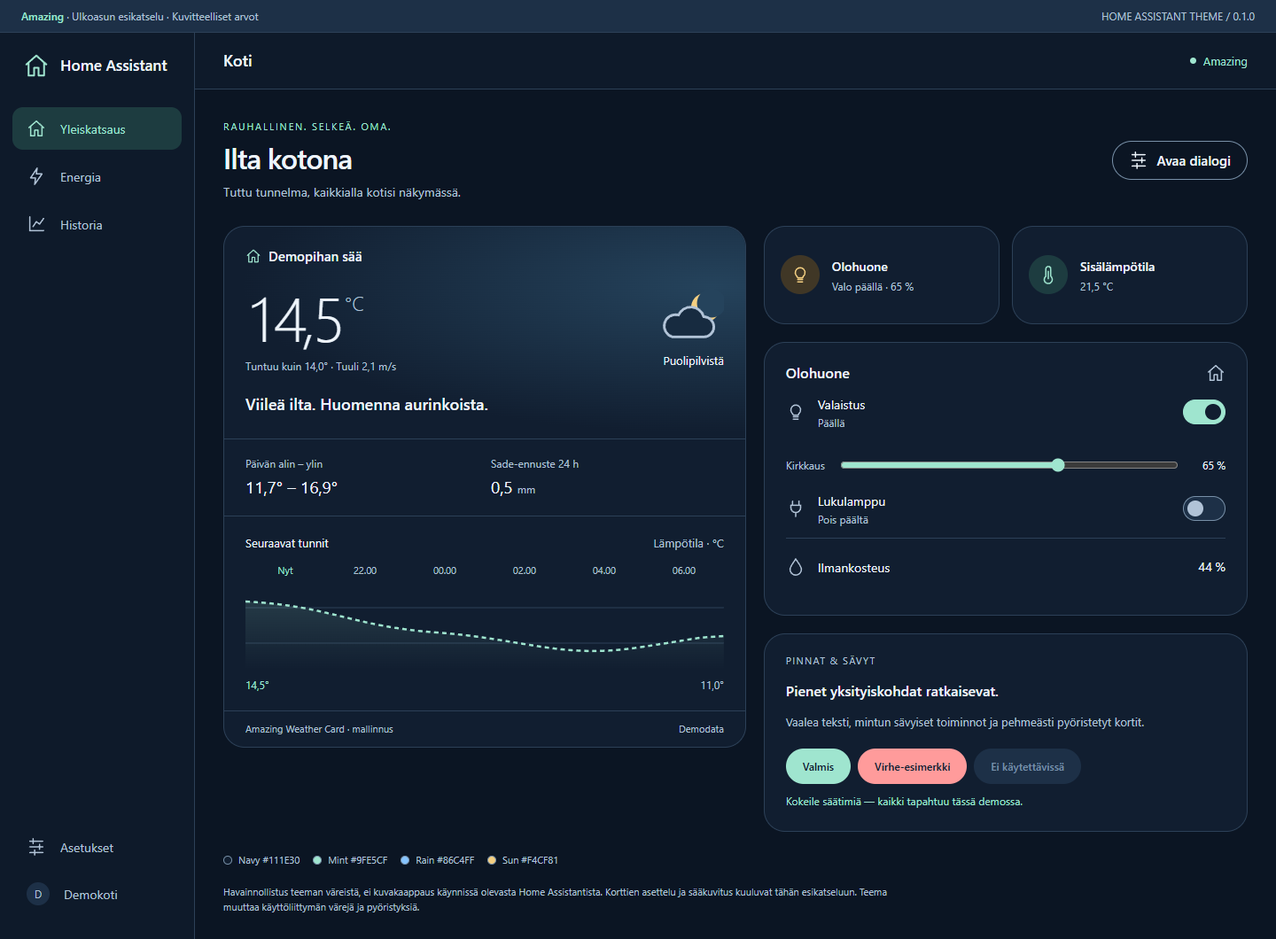
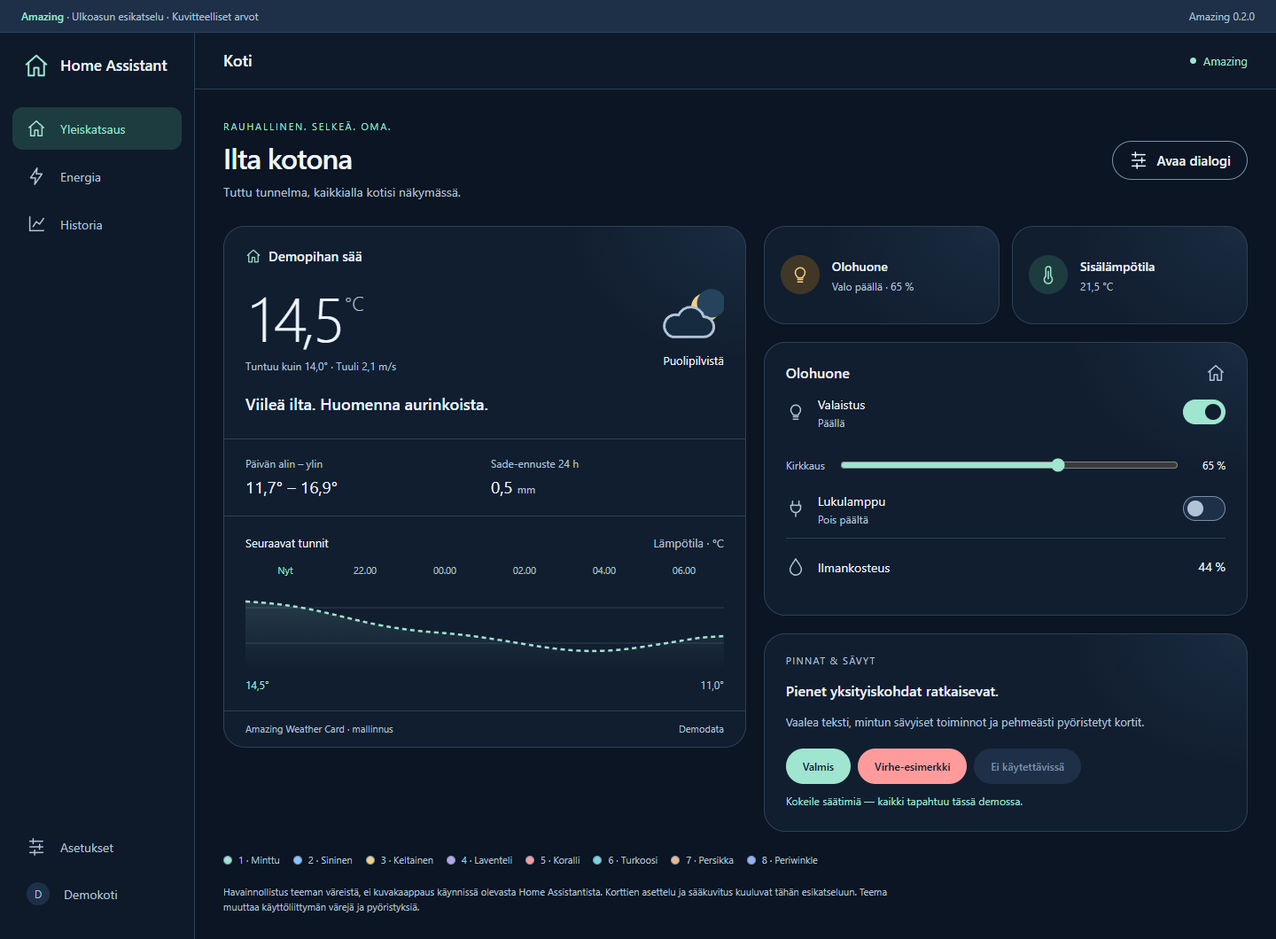
Add subtle card glow and chart palette for Amazing 0.2.0 (#3)
* Document user-reported Home Assistant testing

* Add subtle card glow and coordinated chart palette

* Document live HA testing and refresh 0.2.0 preview

diff --git a/preview/index.html b/preview/index.html
@@ -28,12 +28,20 @@
     --divider-color: #2c4057;
     --outline-color: #7890a8;
     --outline-hover-color: #b1c3d7;
-    --ha-card-background: #111e30;
+    --ha-card-background: radial-gradient(ellipse 280px 210px at 100% 0%, rgba(134, 196, 255, 0.08), transparent 72%), #111e30;
     --ha-card-border-color: #2c4057;
     --ha-card-border-width: 1px;
     --ha-card-border-radius: 24px;
     --ha-card-box-shadow: none;
     --ha-card-header-color: #eef5fc;
+    --graph-color-1: #9fe5cf;
+    --graph-color-2: #86c4ff;
+    --graph-color-3: #f4cf81;
+    --graph-color-4: #b5a7e8;
+    --graph-color-5: #ff9b9b;
+    --graph-color-6: #79d5dc;
+    --graph-color-7: #e8b895;
+    --graph-color-8: #9caef5;
     --sidebar-background-color: #0e1a2a;
     --sidebar-text-color: #eef5fc;
     --sidebar-icon-color: #b1c3d7;
@@ -212,7 +220,7 @@
     *{box-sizing:border-box}body{margin:0;background:var(--primary-background-color);color:var(--primary-text-color);font:15px/1.5 system-ui,-apple-system,"Segoe UI",sans-serif}button,input,select{font:inherit}button,a,input,select{-webkit-tap-highlight-color:transparent}button{cursor:pointer}button:focus-visible,a:focus-visible,input:focus-visible,select:focus-visible{outline:3px solid var(--ha-color-focus);outline-offset:4px}button{color:inherit}a{color:var(--primary-color)}svg{display:block}.icon{width:22px;height:22px;fill:none;stroke:currentColor;stroke-width:1.65;stroke-linecap:round;stroke-linejoin:round;flex-shrink:0}.symbols{position:absolute;width:0;height:0;overflow:hidden}
     .demo-note{padding:9px 24px;border-bottom:1px solid var(--divider-color);background:var(--secondary-background-color);font-size:12px;color:var(--secondary-text-color);display:flex;justify-content:space-between;gap:12px;flex-wrap:wrap}.demo-note strong{color:var(--primary-color);font-weight:600}.shell{display:grid;grid-template-columns:220px minmax(0,1fr);min-height:calc(100vh - 38px)}aside{background:var(--sidebar-background-color);border-right:1px solid var(--divider-color);padding:22px 14px;display:flex;flex-direction:column}.brand{display:flex;align-items:center;gap:12px;padding:0 12px 29px;font-weight:600;font-size:17px}.brand .icon{color:var(--primary-color);width:30px;height:30px}.nav-item{display:flex;gap:16px;align-items:center;padding:13px 16px;margin:3px 0;color:var(--secondary-text-color);font-size:14px}.nav-item.selected{background:var(--ha-color-fill-primary-normal-resting);color:var(--sidebar-selected-text-color);border-radius:12px}.aside-bottom{margin-top:auto;padding-top:80px}.avatar{width:26px;height:26px;border-radius:50%;background:var(--secondary-background-color);display:grid;place-items:center;font-size:12px}
     .workspace{min-width:0}.topbar{min-height:64px;padding:0 32px;display:flex;align-items:center;justify-content:space-between;background:var(--app-header-background-color);border-bottom:1px solid var(--divider-color)}.topbar h1{font-size:18px;font-weight:500;margin:0}.theme-tag{display:flex;align-items:center;gap:8px;color:var(--primary-color);font-size:13px}.theme-tag:before{content:"";width:7px;height:7px;border-radius:50%;background:currentColor}.content{max-width:1320px;margin:auto;padding:34px 32px 28px}.intro{display:flex;justify-content:space-between;align-items:center;gap:20px;margin-bottom:28px}.eyebrow{color:var(--primary-color);font-size:11px;letter-spacing:1.8px;text-transform:uppercase;margin:0 0 7px}.intro h2{font-size:32px;line-height:1.2;font-weight:500;letter-spacing:-1px;margin:0 0 9px}.intro p:last-child{margin:0;color:var(--secondary-text-color);font-size:14px}.outline-button,.plain-button,.filled-button,.danger-button{border-radius:24px;min-height:44px;padding:10px 18px;display:inline-flex;align-items:center;justify-content:center;gap:9px;border:1px solid var(--outline-color);background:transparent;font-weight:500;white-space:nowrap}.outline-button:hover,.plain-button:hover{background:var(--ha-color-fill-neutral-normal-hover)}.filled-button{background:var(--ha-color-fill-primary-loud-resting);color:var(--ha-color-on-primary-loud);border-color:transparent}.filled-button:hover{background:var(--ha-color-fill-primary-loud-hover)}.danger-button{background:var(--ha-color-fill-danger-loud-resting);color:var(--ha-color-on-danger-loud);border-color:transparent}.danger-button:hover{background:var(--ha-color-fill-danger-loud-hover)}.plain-button{border-color:transparent;color:var(--primary-color)}
-    .dashboard{display:grid;grid-template-columns:minmax(0,1.08fr) minmax(0,1fr);gap:20px;align-items:start}.card{border:var(--ha-card-border-width) solid var(--ha-card-border-color);border-radius:var(--ha-card-border-radius);background:var(--ha-card-background);box-shadow:var(--ha-card-box-shadow);overflow:hidden}.card-title{display:flex;align-items:center;justify-content:space-between;gap:12px;font-size:16px;font-weight:500;margin:0}.subtle{color:var(--secondary-text-color)}.card-top{padding:21px 24px 0}.weather-top{padding:22px 24px 26px;background:radial-gradient(ellipse at 94% 28%,#25435c 0%,transparent 68%)}.weather-label{display:flex;align-items:center;gap:8px;font-size:15px;font-weight:500}.weather-label .icon{color:var(--primary-color);width:18px;height:18px}.weather-now{display:flex;justify-content:space-between;gap:12px;align-items:center;margin-top:21px}.temperature{font-size:70px;font-weight:300;line-height:1.05;letter-spacing:-4px;font-variant-numeric:tabular-nums}.temperature small{font-size:22px;vertical-align:top;letter-spacing:0;color:var(--secondary-text-color);display:inline-block;margin:10px 0 0 4px}.feels{font-size:12px;color:var(--secondary-text-color);margin-top:9px}.weather-symbol{width:76px;height:65px;color:var(--secondary-text-color)}.condition{text-align:right;font-size:13px}.condition svg{margin:0 0 6px auto}.summary{font-size:18px;font-weight:500;margin:22px 0 0;line-height:1.4}.weather-stats{display:grid;grid-template-columns:1fr 1fr;gap:14px;padding:18px 24px;border-top:1px solid var(--divider-color);border-bottom:1px solid var(--divider-color)}.stat-label{font-size:12px;color:var(--secondary-text-color)}.stat-value{font-size:19px;margin-top:3px}.stat-value small{font-size:12px;color:var(--secondary-text-color)}.forecast{padding:20px 24px}.forecast-heading{display:flex;align-items:center;justify-content:space-between;font-size:13px;margin-bottom:14px}.forecast-hours{display:grid;grid-template-columns:repeat(6,1fr);font-size:11px;color:var(--secondary-text-color);text-align:center}.forecast-hours span:first-child{color:var(--primary-color)}.chart{height:95px;width:100%;margin:8px 0}.chart-labels{display:flex;justify-content:space-between;font-size:12px}.weather-footer{border-top:1px solid var(--divider-color);padding:12px 24px;color:var(--secondary-text-color);font-size:11px;display:flex;align-items:center;justify-content:space-between;gap:10px}
+    .dashboard{display:grid;grid-template-columns:minmax(0,1.08fr) minmax(0,1fr);gap:20px;align-items:start}.card{border:var(--ha-card-border-width) solid var(--ha-card-border-color);border-radius:var(--ha-card-border-radius);background:var(--ha-card-background);box-shadow:var(--ha-card-box-shadow);overflow:hidden}.card-title{display:flex;align-items:center;justify-content:space-between;gap:12px;font-size:16px;font-weight:500;margin:0}.subtle{color:var(--secondary-text-color)}.card-top{padding:21px 24px 0}.weather-top{padding:22px 24px 26px;background:transparent}.weather-label{display:flex;align-items:center;gap:8px;font-size:15px;font-weight:500}.weather-label .icon{color:var(--primary-color);width:18px;height:18px}.weather-now{display:flex;justify-content:space-between;gap:12px;align-items:center;margin-top:21px}.temperature{font-size:70px;font-weight:300;line-height:1.05;letter-spacing:-4px;font-variant-numeric:tabular-nums}.temperature small{font-size:22px;vertical-align:top;letter-spacing:0;color:var(--secondary-text-color);display:inline-block;margin:10px 0 0 4px}.feels{font-size:12px;color:var(--secondary-text-color);margin-top:9px}.weather-symbol{width:76px;height:65px;color:var(--secondary-text-color)}.condition{text-align:right;font-size:13px}.condition svg{margin:0 0 6px auto}.summary{font-size:18px;font-weight:500;margin:22px 0 0;line-height:1.4}.weather-stats{display:grid;grid-template-columns:1fr 1fr;gap:14px;padding:18px 24px;border-top:1px solid var(--divider-color);border-bottom:1px solid var(--divider-color)}.stat-label{font-size:12px;color:var(--secondary-text-color)}.stat-value{font-size:19px;margin-top:3px}.stat-value small{font-size:12px;color:var(--secondary-text-color)}.forecast{padding:20px 24px}.forecast-heading{display:flex;align-items:center;justify-content:space-between;font-size:13px;margin-bottom:14px}.forecast-hours{display:grid;grid-template-columns:repeat(6,1fr);font-size:11px;color:var(--secondary-text-color);text-align:center}.forecast-hours span:first-child{color:var(--primary-color)}.chart{height:95px;width:100%;margin:8px 0}.chart-labels{display:flex;justify-content:space-between;font-size:12px}.weather-footer{border-top:1px solid var(--divider-color);padding:12px 24px;color:var(--secondary-text-color);font-size:11px;display:flex;align-items:center;justify-content:space-between;gap:10px}
     .right-column{display:grid;gap:20px}.tiles{display:grid;grid-template-columns:1fr 1fr;gap:14px}.tile{padding:18px;min-height:111px;display:flex;align-items:center;gap:14px}.tile-icon{width:44px;height:44px;border-radius:50%;display:grid;place-items:center;background:var(--ha-color-fill-warning-normal-resting);color:var(--warning-color);flex-shrink:0}.tile-icon.mint{background:var(--ha-color-fill-primary-normal-resting);color:var(--primary-color)}.tile b{font-size:14px;font-weight:500}.tile p{font-size:12px;color:var(--secondary-text-color);margin:3px 0 0}.tile-content{min-width:0}.entities{padding:22px 24px}.entity-row{display:flex;align-items:center;gap:14px;min-height:65px}.entity-row+.entity-row{border-top:1px solid var(--divider-color)}.entity-row>.icon{color:var(--secondary-text-color)}.entity-text{flex:1;min-width:0}.entity-text b{font-size:14px;font-weight:400}.entity-text small{display:block;color:var(--secondary-text-color);font-size:12px}.entity-value{font-size:14px}.toggle{position:relative;width:48px;height:28px;min-width:48px;min-height:44px;border:0;background:transparent;padding:8px 0}.toggle:before{content:"";position:absolute;inset:8px 0;border:1px solid var(--ha-switch-border-color);border-radius:18px;background:var(--ha-switch-background-color)}.toggle:after{content:"";position:absolute;width:18px;height:18px;top:13px;left:5px;border-radius:50%;background:var(--ha-switch-thumb-background-color)}.toggle[aria-checked="true"]:before{background:var(--ha-switch-checked-background-color);border-color:var(--ha-switch-checked-border-color)}.toggle[aria-checked="true"]:after{left:25px;background:var(--ha-switch-checked-thumb-background-color)}.controls-row{display:flex;align-items:center;gap:15px;padding-top:10px}.controls-row label{font-size:12px;color:var(--secondary-text-color)}input[type="range"]{accent-color:var(--primary-color);width:100%;min-width:0;min-height:30px}.range-value{font-size:12px;min-width:36px;text-align:right}.section-label{font-size:11px;letter-spacing:1.3px;text-transform:uppercase;color:var(--secondary-text-color);margin:0 0 14px}.palette{margin-top:24px;display:flex;justify-content:space-between;align-items:center;gap:18px;flex-wrap:wrap}.swatches{display:flex;gap:15px;flex-wrap:wrap}.swatch{font-size:11px;color:var(--secondary-text-color);display:flex;align-items:center;gap:7px}.swatch i{width:10px;height:10px;border-radius:50%;background:var(--swatch);border:1px solid var(--outline-color)}.preview-caption{font-size:11px;color:var(--secondary-text-color);margin:20px 0 0;max-width:760px}.status{min-height:21px;font-size:12px;color:var(--primary-color);margin:10px 0 0}
     dialog{background:var(--ha-dialog-surface-background);color:var(--primary-text-color);border:1px solid var(--divider-color);border-radius:var(--ha-dialog-border-radius);box-shadow:var(--dialog-box-shadow);padding:26px;width:min(520px,calc(100% - 32px));max-height:calc(100dvh - 32px);overflow:auto}dialog::backdrop{background:var(--mdc-dialog-scrim-color)}.dialog-head{display:flex;align-items:center;justify-content:space-between;gap:16px;margin-bottom:15px}.dialog-head h2{font-size:22px;font-weight:500;margin:0}.close{border:0;background:transparent;width:44px;height:44px;display:grid;place-items:center;border-radius:50%}dialog p{color:var(--secondary-text-color);font-size:14px}dialog label{display:block;font-size:13px;color:var(--secondary-text-color);margin:20px 0 7px}input[type="text"],select{width:100%;min-height:50px;border:1px solid var(--input-outlined-idle-border-color);border-radius:10px;background:var(--input-fill-color);color:var(--input-ink-color);padding:10px 13px;font-size:16px}.dialog-actions{display:flex;justify-content:flex-end;gap:10px;flex-wrap:wrap;margin-top:25px}.message{display:flex;align-items:center;gap:10px;background:var(--ha-color-fill-warning-normal-resting);color:var(--ha-color-on-warning-normal);font-size:13px;padding:13px;border-radius:12px;margin-top:22px}.button-samples{display:flex;gap:8px;flex-wrap:wrap;margin-top:20px}.button-samples button{font-size:12px;min-height:40px}button:disabled{cursor:default;background:var(--ha-color-fill-disabled-normal-resting);color:var(--ha-color-on-disabled-normal);border-color:transparent}
     @media(min-width:1500px){.content{padding-top:48px}.dashboard{gap:24px}.weather-top{padding-bottom:35px}.forecast{padding-bottom:30px}}@media(max-width:1120px){.shell{grid-template-columns:72px minmax(0,1fr)}aside{padding:22px 9px}.brand{padding:0 12px 29px}.brand span,.nav-item>span,.aside-bottom .avatar+span{display:none}.nav-item{padding:13px 15px}.content{padding:28px 24px}.topbar{padding:0 24px}.tile{padding:14px;gap:10px}.tile-icon{width:36px;height:36px}}@media(max-width:800px){.dashboard{grid-template-columns:1fr}.content{max-width:640px}.intro{align-items:flex-start}.intro h2{font-size:28px}.intro .outline-button{font-size:12px;padding:9px 13px}.intro .outline-button .icon{display:none}.weather-top{padding-bottom:24px}}@media(max-width:480px){.shell{display:block}aside{display:none}.demo-note{padding:8px 16px;font-size:11px}.demo-note .version{display:none}.topbar{padding:0 18px;min-height:58px}.topbar h1{font-size:16px}.content{padding:24px 16px}.intro{display:block;margin-bottom:20px}.intro h2{font-size:29px}.intro .outline-button{margin-top:16px;font-size:13px}.tiles{gap:10px}.tile{padding:14px 11px;gap:9px}.tile-icon{width:32px;height:32px}.tile b{font-size:13px}.tile p{font-size:11px}.entities,.weather-top{padding:20px}.forecast{padding:20px}.weather-stats{padding:17px 20px}.palette{margin-top:20px}.swatches{gap:12px}.temperature{font-size:65px}.summary{font-size:17px}.preview-caption{font-size:12px}.dialog-actions{justify-content:stretch}.dialog-actions button{flex:1}dialog{padding:21px}.swatch{font-size:10px}}
@@ -230,7 +238,7 @@
     <symbol id="plug" viewBox="0 0 24 24"><path d="M8 3v5M16 3v5M6 8h12v3a6 6 0 0 1-12 0ZM12 17v5"/></symbol>
     <symbol id="close" viewBox="0 0 24 24"><path d="m6 6 12 12M18 6 6 18"/></symbol>
   </defs></svg>
-  <div class="demo-note"><span><strong>Amazing</strong> · Ulkoasun esikatselu · Kuvitteelliset arvot</span><span class="version">HOME ASSISTANT THEME / 0.1.0</span></div>
+  <div class="demo-note"><span><strong>Amazing</strong> · Ulkoasun esikatselu · Kuvitteelliset arvot</span><span class="version">Amazing 0.2.0</span></div>
   <div class="shell">
     <aside aria-label="Mallinnettu sivupalkki">
       <div class="brand"><svg class="icon"><use href="#home"/></svg><span>Home Assistant</span></div>
@@ -256,7 +264,7 @@
             <article class="card entities"><p class="section-label">Pinnat & sävyt</p><h3 class="card-title">Pienet yksityiskohdat ratkaisevat.</h3><p class="subtle" style="font-size:13px;margin-bottom:0">Vaalea teksti, mintun sävyiset toiminnot ja pehmeästi pyöristetyt kortit.</p><div class="button-samples"><button class="filled-button" id="sample-save">Valmis</button><button class="danger-button" id="sample-danger">Virhe-esimerkki</button><button class="outline-button" disabled>Ei käytettävissä</button></div><p class="status" role="status" id="demo-status">Kokeile säätimiä — kaikki tapahtuu tässä demossa.</p></article>
           </div>
         </div>
-        <div class="palette"><div class="swatches"><span class="swatch"><i style="--swatch:#111e30"></i>Navy #111E30</span><span class="swatch"><i style="--swatch:#9fe5cf"></i>Mint #9FE5CF</span><span class="swatch"><i style="--swatch:#86c4ff"></i>Rain #86C4FF</span><span class="swatch"><i style="--swatch:#f4cf81"></i>Sun #F4CF81</span></div></div>
+        <div class="palette"><div class="swatches"><span class="swatch"><i style="--swatch:var(--graph-color-1)"></i>1 · Minttu</span><span class="swatch"><i style="--swatch:var(--graph-color-2)"></i>2 · Sininen</span><span class="swatch"><i style="--swatch:var(--graph-color-3)"></i>3 · Keltainen</span><span class="swatch"><i style="--swatch:var(--graph-color-4)"></i>4 · Laventeli</span><span class="swatch"><i style="--swatch:var(--graph-color-5)"></i>5 · Koralli</span><span class="swatch"><i style="--swatch:var(--graph-color-6)"></i>6 · Turkoosi</span><span class="swatch"><i style="--swatch:var(--graph-color-7)"></i>7 · Persikka</span><span class="swatch"><i style="--swatch:var(--graph-color-8)"></i>8 · Periwinkle</span></div></div>
         <p class="preview-caption">Havainnollistus teeman väreistä, ei kuvakaappaus käynnissä olevasta Home Assistantista. Korttien asettelu ja sääkuvitus kuuluvat tähän esikatseluun. Teema muuttaa käyttöliittymän värejä ja pyöristyksiä.</p>
       </main>
     </div>

diff --git a/docs/COMPATIBILITY.md b/docs/COMPATIBILITY.md
@@ -10,7 +10,8 @@ Värikerrokset:
 | --- | --- | --- |
 | Perusvärit | `primary-color`, `accent-color` | Minttu ja sateensininen |
 | Pinnat ja teksti | `card-background-color`, `primary-text-color` | Alkuperäisen sääkortin tumma paletti |
-| Natiivikortit | `ha-card-*` | 24 px kulmat, 1 px hillitty reuna |
+| Natiivikortit | `ha-card-*` | 24 px kulmat, 1 px hillitty reuna ja 8 % sininen kulmahehku |
+| Kaaviot | `graph-color-1` … `graph-color-8` | Sarjajärjestyksen värit; korttikohtainen väri voi ohittaa ne |
 | Vanhemmat säätimet | `input-*`, `mdc-theme-*` | Kentät, valitsimet, dialogit ja luettavat painikkeet |
 | Nykyiset komponentit | `ha-color-*`, `ha-switch-*`, `ha-slider-*` | Myös Web Awesomeen perustuvien komponenttien sävyt |
 
@@ -26,26 +27,64 @@ Koristeellinen `#2c4057`-korttireuna on tarkoituksella hienovarainen. Se ei ole 
 - YAML-parseri, manifesti, teemahakemiston rakenne ja asennusesimerkit tarkistettiin paikallisesti.
 - Kontrastiparit on laskettu sRGB:n suhteellisella luminanssilla; raportti: [VALIDATION.md](VALIDATION.md).
 - Esikatselu testattiin paikallisessa selaimessa; raportti: [PREVIEW-QA.md](PREVIEW-QA.md).
+- Käyttäjä vahvisti 8.9.2026 teeman kokeilun aidossa Home Assistantissa ja toimitti dashboard-kuvan; tarkempi rajaus alla.
 
 GitHubin HACS- ja teemavalidoinnin ajantasaiset tulokset: [Validation](https://github.com/raunosr/ha-amazing-theme/actions/workflows/validate.yaml). HACS-validaattori tarkistaa repositorion myös verkosta.
 
-Ei suoritettu: asennus käyttäjän HA:han, aidot HA-komponentit selaimessa, HACS-lataus tai mobiilin Companion-sovellus. Näiden tuloksia ei voi päätellä HTML-esikatselusta tai repositoriovalidoinnista.
-
 HA:n dokumentaatio takaa ensisijaisesti pää-/korostusvärit ja dokumentoidut tilavärit. Muiden tyylimuuttujien toiminta voi muuttua julkaisujen välillä. Nykyisiä ja vanhempia muuttujia on siksi mukana rinnakkain. Manifestiin ei asetettu todentamatonta HA-vähimmäisversiota. [Virallinen huomautus teemamuuttujista](https://www.home-assistant.io/integrations/frontend/#unsupported-theme-variables).
 
-## Kokeilu aidossa HA:ssa
+## Käyttäjän HA-kokeilu 8.9.2026
 
-Suorita itse tai erikseen valtuutetussa testiympäristössä:
+| Tieto | Kirjattu havainto |
+| --- | --- |
+| Testauksen vahvistus | Käyttäjä ilmoitti testanneensa teemaa käynnissä olevassa Home Assistantissa. |
+| Julkaisutilanne | Raportointihetken julkaistu teema oli Amazing 0.1.0. |
+| Näyttö | Käyttäjän toimittama kuva aidosta HA-dashboardista. |
+| Ulkoasu | Kuvassa näkyvät tumma navy-tausta, pyöristetyt kortit, vaalea teksti ja mintun sävyjä. Näkymässä on muun muassa sää-, kello- ja kaaviokortteja. |
+| Home Assistant / frontend | Versioita ei ilmoitettu. |
+| Asennustapa | Ei ilmoitettu; HACS-latausta tai päivitystä ei ole vahvistettu. |
+| Selain / käyttöjärjestelmä | Ei ilmoitettu. |
 
-1. Asenna tiedosto ja varmista, että valikossa näkyy yksi `Amazing`-teema.
-2. Valitse teema testiprofiilissa. Tarkista sidebar, asetussivu ja linkit.
-3. Tarkista natiivit Tile-, Entities-, Thermostat-, Markdown- ja Weather Forecast -kortit sekä yksi historianäkymä.
-4. Avaa more-info-dialogi ja korttieditori. Tarkista kentän teksti, vihjeteksti, valikko, virheilmoitus, valittu vaihtoehto ja tallennuspainikkeen kontrasti.
-5. Tarkista kytkimen molemmat tilat, liukusäädin ja näppäimistökohdistus. Tarkista käytöstä poistettu säädin erillisenä tilana.
-6. Vaihda profiili takaisin entiseen teemaan ja valitse `Amazing` vain demodashboardin näkymälle. Tarkista myös siirtyminen toiseen näkymään ja takaisin. Sovellustason dialogin profiiliväritys on eri asia kuin näkymän korttiväritys.
-7. Tarkista tumma ja vaalea ympäröivä profiili, puhelin ja Companion-sovellus. Palauta testin jälkeen aiemmat valinnat.
+Tämä on käyttäjän raportoima kokeilu ja dashboardin visuaalinen havainto. Se ei vahvista kaikkien korttien toiminnallisuutta, jokaista teemamuuttujaa tai alla olevan tarkistuslistan läpäisyä. Kuvasta ei voi päätellä profiili- ja näkymäteeman keskinäistä toimintaa.
 
-Tallenna testattu HA- ja frontend-versio tähän tiedostoon. Julkaisukuvat saa korvata aidon HA:n kuvilla vain, jos kuvissa käytetään demotietoja.
+Amazing Weather Cardin oikean yläkulman hehku on kortin oma taustatehoste. Amazing 0.1.0 asettaa yleiseksi korttipinnaksi tasaisen `#111e30`-värin. Korttikohtaiset liukuvärit, kaaviovärit, akselien muotoilu ja dashboardin asettelu voivat vaatia kyseisen kortin tai näkymän asetuksia.
+
+Repositorion mukana olevat kuvakaappaukset ovat edelleen offline-esikatselusta. Käyttäjän HA-kuvaa käytettiin havaintojen kirjaamiseen.
+
+## Suora HA-testi 8.9.2026
+
+Amazing 0.2.0:n julkaisuehdokasta testattiin käyttäjän osoittamassa, erillisessä Sections-näkymässä. Teema ei lisää näitä kortteja automaattisesti.
+
+| Kohde | Tulos / menetelmä |
+| --- | --- |
+| HA | Core 2026.8.3, HAOS 18.2, HACS 2.0.5. Frontend-paketin erillistä versionumeroa ei tallennettu. |
+| Selain | Codexin Chromium-pohjainen selain Windowsissa; mitattu näkymä 1699 × 1272 CSS-pikseliä. |
+| Asennus | HACS:n asennusluettelossa Amazing Theme v0.1.0. Julkaisuehdokkaan YAML päivitettiin hallittuun tiedostoon varmuuskopion jälkeen, SHA256 varmistettiin ja teemat ladattiin uudelleen. Tämä vaihe oli tiedostopäivitys, ei HACS-versionpäivitys. |
[1 lines of base64/hex data omitted]
+| Näkymä | Amazing valittuna vain testinäkymään, ympäröivä profiili vaalea. Muut näkymät säilytettiin. |
+| Amazing Weather Card | HACS:n asennusluettelossa 0.2.1, `theme: auto`. Nykytila, 24 h / 6 pv ennustejakson vaihto ja käyrät renderöityivät. Kortin ulkopinnalla varmistettiin sama hillitty hehku kuin natiivikorteissa. |
+| History Graph | Minttu ja sininen sarja piirtyivät. Legendan valinnalla piilotettiin sininen sarja, nähtiin minttu käyrä ja palautettiin molemmat sarjat. |
+| Statistics Graph | Tuntikeskiarvojen pylväät renderöityivät eksplisiittisellä lämpimällä keltaisella `#f4cf81`. |
+| Sensor / Tile / Markdown | Sisältö renderöityi; korttien laskettu tausta oli navy + 8 %:n sininen liukuväri. Sensor-kortin oma käyrä käytti sinistä korostusväriä. |
+| Button | Mittauspainike avasi more-info-dialogin; Escape sulki sen. Painikkeilla ei ohjattu kodin laitteita. |
+| Sovellustason dialogi | Vaalea more-info-dialogi seurasi profiilia. Tämä on näkymäteeman rajaus; yhtenäiseen sivupalkkiin ja dialogeihin valitse Amazing myös profiilissa. |
+| CSS-tarkistus | Korttien laskettu tausta ja kaikki kahdeksan graph-color-muuttujaa vastasivat YAML:ia. Otsikkokortin läpinäkyvyys säilyi. |
+| Selainkonsoli | Ympäristössä esiintyi erillisiin custom-sidebar-, vertical-stack-in-card- ja lit-virtualizer-latauksiin liittyviä virheitä. Siksi ympäristöä ei raportoida virheettömäksi. Testatut kortit renderöityivät niistä huolimatta. |
+
+Natiivien viiva- ja pylväskaavioiden toiminta tarkistettiin; kaikkia HA:n kaaviotyyppejä tai kolmannen osapuolen kortteja ei testattu. Esimerkiksi omaa taustaa tai väriä käyttävä kortti voi ohittaa teeman. Värit määräytyvät sarjajärjestyksestä, ellei kortissa ole omaa väriasetusta; katso [APPEARANCE.md](APPEARANCE.md).
+
+Julkaisun jälkeinen HACS-päivityksen tulos kirjataan [v0.2.0:n julkaisutietoihin](https://github.com/raunosr/ha-amazing-theme/releases/tag/v0.2.0). Repositorion kuvat käyttävät vain esikatselun demotietoja; yksityistä HA-konfiguraatiota tai sen kuvia ei julkaista.
+
+## Avoimet jatkotarkistukset
+
+Seuraavat asiat eivät sisältyneet suoraan selainkokeeseen:
+
+- Fyysinen puhelin ja Companion-sovellus. Selaimen 390 px:n kokopyyntö ei muuttanut mitattua leveyttä, joten sitä ei lasketa mobiilitestiksi.
+- Profiiliin valitun Amazing-teeman kaikkien asetussivujen, dialogieditorien ja kenttätilojen tarkistus.
+- Thermostat ja oikeiden laitteiden kytkimet/liukusäätimet sekä niiden kaikki tilat.
+- Kaikkien kaaviotyyppien, kahdeksan yhtäaikaisen käyrän ja värinäön poikkeamien kattava arvio.
+
+Paikallisen esikatselun aiempi mobiilitesti on erillinen havainto: [PREVIEW-QA.md](PREVIEW-QA.md). Kontrastilaskenta ei yksin takaa kaikkien HA-komponenttien saavutettavuutta.
 
 ## Lähteet
 

diff --git a/README.md b/README.md
@@ -1,19 +1,20 @@
 # Amazing Theme
 
-Syvä laivastonsininen Home Assistant -teema, jonka minttu, sateensininen ja lämmin keltainen ovat peräisin **Amazing Weather Cardin alkuperäisestä tummasta ulkoasusta**. Korttipinnat ovat `#111e30`, teksti `#eef5fc` ja pyöristykset 24 px.
+Syvä laivastonsininen Home Assistant -teema, jonka minttu, sateensininen ja lämmin keltainen ovat peräisin **Amazing Weather Cardin alkuperäisestä tummasta ulkoasusta**. Korttipinnat ovat `#111e30` hillityllä sinisellä kulmahehkulla, teksti `#eef5fc` ja pyöristykset 24 px.
 
-**Versio 0.1.0 · HACS-yhteensopiva · Vain tumma tila.** Julkinen repositorio: [raunosr/ha-amazing-theme](https://github.com/raunosr/ha-amazing-theme). Asenna HACS:n mukautettuna repositoriona; teema ei ole HACS:n oletusluettelossa.
+**Versio 0.2.0 · HACS-yhteensopiva · Vain tumma tila.** Julkinen repositorio: [raunosr/ha-amazing-theme](https://github.com/raunosr/ha-amazing-theme). Asenna HACS:n mukautettuna repositoriona; teema ei ole HACS:n oletusluettelossa.
 
 [![Validation](https://github.com/raunosr/ha-amazing-theme/actions/workflows/validate.yaml/badge.svg)](https://github.com/raunosr/ha-amazing-theme/actions/workflows/validate.yaml)
 [![Avaa HACS-repositorio](https://my.home-assistant.io/badges/hacs_repository.svg)](https://my.home-assistant.io/redirect/hacs_repository/?owner=raunosr&repository=ha-amazing-theme&category=theme)
 
 ![Amazing-teeman paikallinen havainnollistus](docs/screenshots/desktop.png)
 
-*Kuva on mukana toimitetusta esikatselusta, ei käynnissä olevasta Home Assistantista. Esimerkkitiedot ovat kuvitteellisia. Teema ei luo kuvan dashboard-asettelua tai sääkorttia.*
+*Kuva on version 0.2.0 mukana toimitetusta esikatselusta, ei käynnissä olevasta Home Assistantista. Esimerkkitiedot ovat kuvitteellisia. Teema ei luo kuvan dashboard-asettelua tai sääkorttia.*
 
 ## Mitä saat
 
 - Itsenäinen `themes/amazing.yaml`: värit, kortit, sivupalkki, syötekentät, valitsimet ja dialogipinnat.
+- Hillitty, paikallaan pysyvä 8 %:n sininen hehku kortin oikeassa yläkulmassa ja kahdeksan värin kaaviopaletti. [Ulkoasun asetukset ja kaavioesimerkit](docs/APPEARANCE.md).
 - Vanhempien MDC-komponenttien sekä nykyisten HA-komponenttien väriasetukset.
 - Home Assistantin omat fontit, asettelut ja säätimien mitat. Ei card-modia, JavaScript-resurssia, fonttilatauksia tai kuvataustoja.
 - Profiilissa koko käyttöliittymälle valittava teema sekä näkymäkohtainen käyttö.
@@ -66,9 +67,15 @@ Lisää teema HACS:n mukautettuna repositoriona yllä olevasta painikkeesta tai 
 
 HACS asentaa teematiedoston `themes/`-hakemiston alle ja seuraa GitHub-julkaisuja. ZIP-paketti on vaihtoehto käsin asentamiseen. [HACS: Custom repositories](https://www.hacs.xyz/docs/faq/custom_repositories/), [HACS: yleiset vaatimukset](https://www.hacs.xyz/docs/publish/start/).
 
+### Päivitä HACS:ssa
+
+Avaa Amazing Theme HACS:ssa ja lataa uusi versio. Jos päivitys ei vielä näy, valitse repositorion valikosta **Update information / Päivitä tiedot**. Suorita `frontend.reload_themes` ja päivitä selain. Teeman nimi säilyy `Amazing`, joten näkymän valintaa ei tarvitse vaihtaa. Säilytä omat muutokset erillisessä, eri nimisessä teemassa.
+
 ## Esikatselu
 
 Avaa [preview/index.html](preview/index.html) paikallisessa selaimessa. Verkkoyhteyttä tai Home Assistant -kirjautumista ei tarvita. Kokeile valaistuskytkimiä, kirkkaussäädintä ja **Avaa dialogi** -painiketta.
+
+Kuvat ja HTML-esikatselu käyttävät version 0.2.0 teematiedostoa.
 
 | Työpöytä | Dialogi | Puhelin |
 | --- | --- | --- |
@@ -76,9 +83,11 @@ Avaa [preview/index.html](preview/index.html) paikallisessa selaimessa. Verkkoyh
 
 ## Yhteensopivuus ja tarkistukset
 
-YAML, HACS-paketin paikallinen rakenne ja 81 väriparin kontrastit on tarkistettu. Esikatselu on testattu viidellä leveydellä 320–1440 px. **Teemaa ei ole vielä kokeiltu käynnissä olevassa Home Assistantissa eikä HACS-latauksena.**
+YAML, HACS-paketin paikallinen rakenne ja 103 väriparin kontrastit on tarkistettu. Esikatselu on testattu viidellä leveydellä 320–1440 px. GitHubin HACS- ja teemavalidointi ovat läpäisseet tarkistukset.
 
-Home Assistantin sisäiset tyylimuuttujat voivat muuttua. Kolmannen osapuolen kortti, joka määrittelee värinsä itse, voi ohittaa teeman. Teema ei vaadi Amazing Weather Cardia eikä muuta sen ohjelmakoodia.
+**Amazing 0.2.0:n julkaisuehdokas testattiin 8.9.2026 Home Assistant Core 2026.8.3:ssa.** Testissä käytettiin Amazing Weather Card 0.2.1:tä sekä natiiveja historia-, tilasto-, sensori-, painike-, Tile- ja Markdown-kortteja. Hehku, käyrien sarjavalinta, keltainen pylväskaavio, sääkortin ennustejakson vaihto ja painikkeen more-info-dialogi tarkistettiin selaimessa. [Testiympäristö, asennustapa ja rajaukset](docs/COMPATIBILITY.md#suora-ha-testi-892026).
+
+Home Assistantin sisäiset tyylimuuttujat voivat muuttua. Kolmannen osapuolen kortti, joka määrittelee värinsä itse, voi ohittaa teeman. Teema ei vaadi Amazing Weather Cardia eikä muuta sen ohjelmakoodia. Amazing 0.2.0 tuo hillityn hehkun myös teemataustaa käyttäviin kortteihin. Sääkortin pakotettu tumma tai vaalea tila voi käyttää omaa taustaa; testissä käytettiin `theme: auto` -asetusta. [Hehkun ja kaaviovärien rajaukset](docs/APPEARANCE.md).
 
 Lisätiedot: [yhteensopivuus ja HA-kokeilun lista](docs/COMPATIBILITY.md), [kontrastiraportti](docs/VALIDATION.md), [esikatselun testit](docs/PREVIEW-QA.md).
 
@@ -100,4 +109,4 @@ Esikatselun käyttöliittymävärit generoidaan samasta YAML:sta. Sääkuvitus o
 
 Väripaletti ja 24 px:n korttipyöristys perustuvat [Amazing Weather Card v0.1.0:n](https://github.com/raunosr/ha-amazing-weather-card/releases/tag/v0.1.0) `src/styles.ts`-tiedostoon. Tässä paketissa ei ole sääkortin ohjelmakoodia eikä käyttäjän HA-konfiguraatiota. Lisenssi: [MIT](LICENSE).
 
-*English: A standalone dark Home Assistant theme with navy surfaces and mint accents. In HACS, add `https://github.com/raunosr/ha-amazing-theme` as a custom repository of type **Theme**, then download Amazing Theme. Enable the frontend theme loader shown above, reload themes, and select **Amazing** in your profile or set `theme: Amazing` on a dashboard view. The offline preview is an illustration, not a live HA screenshot. Live Home Assistant and HACS installation testing is still pending.*
+*English: A standalone dark Home Assistant theme with navy surfaces and mint accents. In HACS, add `https://github.com/raunosr/ha-amazing-theme` as a custom repository of type **Theme**, then download Amazing Theme. Enable the frontend theme loader shown above, reload themes, and select **Amazing** in your profile or set `theme: Amazing` on a dashboard view. The 0.2.0 release candidate was tested in Home Assistant Core 2026.8.3 with Amazing Weather Card 0.2.1 and native history, statistics, sensor, button, tile and Markdown cards. The theme adds a subtle 8% blue corner glow and eight chart series colors. See the compatibility report for the installation method and test limits. Bundled screenshots show the 0.2.0 offline preview with fictional data.*

diff --git a/docs/APPEARANCE.md b/docs/APPEARANCE.md
@@ -1,0 +1,40 @@
+# Hehku ja kaaviovärit
+
+Amazing 0.2.0 käyttää tavallisissa teemataustaa noudattavissa korteissa hillittyä sinistä hehkua oikeassa yläkulmassa. Hehku on staattinen eikä vaadi card-modia, animaatiota tai ladattavia resursseja.
+
+## Korttien tausta
+
+`ha-card-background` koostuu 280 × 210 px:n säteisestä liukuväristä ja peittävästä navy-pohjasta. Sinisen `#86c4ff` enimmäispeittävyys on 8 %, ja hehku häviää 72 %:n kohdalla. Kiinteä koko pitää hehkun pienenä myös leveässä kortissa. `card-background-color` säilyy yksivärisenä `#111e30`:na dialogeja, vihjeitä ja tasaväristä pintaa tarvitsevia komponentteja varten.
+
+Omaa taustaansa käyttävä kortti voi ohittaa asetuksen. Amazing Weather Card 0.2.1:n `theme: auto` testattiin teeman kanssa; pakotetun `dark`- tai `light`-tilan omat pinnat ja hehku voivat erota tästä. Teema ei muuta sääkortin ohjelmakoodia tai sen ennustekaavioiden värejä.
+
+Jos haluat tasaisen pinnan omaan teemaversioosi, vaihda sen nimi ja aseta:
+
+```yaml
+ha-card-background: "#111e30"
+```
+
+Älä tee pysyviä omia muutoksia HACS:n hallitsemaan tiedostoon, koska päivitys korvaa sen.
+
+## Natiivien kaavioiden paletti
+
+| Sarja | Väri | Sävyn nimi |
+| --- | --- | --- |
+| 1 | `#9fe5cf` | Minttu |
+| 2 | `#86c4ff` | Sateensininen |
+| 3 | `#f4cf81` | Lämmin keltainen |
+| 4 | `#b5a7e8` | Laventeli |
+| 5 | `#ff9b9b` | Koralli |
+| 6 | `#79d5dc` | Turkoosi |
+| 7 | `#e8b895` | Persikka |
+| 8 | `#9caef5` | Sinivioletti |
+
+Home Assistantin palettia tukevat kaaviot lukevat `graph-color-1` … `graph-color-8` -muuttujia sarjajärjestyksen perusteella. Teema ei tunnista automaattisesti lämpötilaa, sadetta tai sähkön hintaa. Yli kahdeksan sarjan väreissä käytetään HA:n muita oletuksia. Säilytä legendat ja yksiköt: sävyero yksin ei riitä tunnisteeksi.
+
+Kun tietyn suureen väri halutaan samaksi eri korteissa, aseta kortin tukema sarjaväri erikseen: lämpötila `#9fe5cf`, sade `#86c4ff`, sähkön hinta `#f4cf81`. [examples/charts.yaml](../examples/charts.yaml) sisältää natiivin historian ja keltaisen hintapylvään esimerkit. Korvaa `_replace_me`-entiteetit omillasi. Tilastokaavio vaatii kyseiseltä sensorilta tallennettuja tilastoja.
+
+Kolmannen osapuolen kortit, kuten ApexCharts Card, voivat käyttää omaa väriasetustaan. Myös Sensor-kortin pieni käyrä voi käyttää korostusväriä yleisen sarjapaletin sijaan. Teema ei korjaa kaavion akselien desimaaleja, yksiköitä tai toissijaista asteikkoa; ne määritellään kortissa.
+
+Kaikki kahdeksan sävyä on tarkistettu vähintään 3:1-kontrastilla sekä navy-pohjaa että hehkun vaaleinta kohtaa vasten. Tämä ei takaa vierekkäisten sarjojen keskinäistä kontrastia tai kaikkien värinäön poikkeamien huomioimista. [Kontrastiraportti](VALIDATION.md), [HA-testin tulokset](COMPATIBILITY.md#suora-ha-testi-892026).
+
+Lähteet: [HA frontend: sarjavärin valinta](https://github.com/home-assistant/frontend/blob/18f79dfc919e2019102c4fde0606fdb449f4cc15/src/common/color/colors.ts), [HA: History Graph](https://www.home-assistant.io/dashboards/history-graph/), [HA: Statistics Graph](https://www.home-assistant.io/dashboards/statistics-graph/).

diff --git a/docs/VALIDATION.md b/docs/VALIDATION.md
@@ -2,12 +2,34 @@
 
 YAML jäsennetty oikealla YAML-parserilla; kaksoisavaimet tarkistettu. HACS-tiedostorakenne, manifestin tiedostonimi, esimerkit ja esikatselun vastaavuus teeman väreihin tarkistettu.
 
-198 teemamuuttujaa. 81 kontrastiparia hyväksytty. Tekstiparien tavoite ≥ 4,5:1, säätimien reunat ja osoittimet ≥ 3:1.
+206 teemamuuttujaa. 103 kontrastiparia hyväksytty. Tekstiparien tavoite ≥ 4,5:1, säätimien reunat, osoittimet ja kaaviosarjat ≥ 3:1. Hehkun vaalein kohta (#1a2b41) on tarkistettu erikseen.
 
 Tämä ei ole koko Home Assistantin WCAG-arvio eikä testi käynnissä olevassa HA:ssa. Koristeellista korttireunaa ja käytöstä poistettuja säätimiä ei lasketa tekstin tai aktiivisen säätimen kontrastilupaukseen.
 
 | Pari | Teksti / osoitin | Tausta | Suhde | Raja |
 | --- | --- | --- | ---: | ---: |
+| primary-text-color / card glow peak | #eef5fc | #1a2b41 | 13.03:1 | 4.5:1 |
+| secondary-text-color / card glow peak | #b1c3d7 | #1a2b41 | 7.95:1 | 4.5:1 |
+| primary-color / card glow peak | #9fe5cf | #1a2b41 | 9.95:1 | 4.5:1 |
+| error-color / card glow peak | #ff9b9b | #1a2b41 | 7.10:1 | 4.5:1 |
+| warning-color / card glow peak | #f4cf81 | #1a2b41 | 9.61:1 | 4.5:1 |
+| info-color / card glow peak | #86c4ff | #1a2b41 | 7.75:1 | 4.5:1 |
+| graph-color-1 / card | #9fe5cf | #111e30 | 11.65:1 | 3:1 |
+| graph-color-1 / card glow peak | #9fe5cf | #1a2b41 | 9.95:1 | 3:1 |
+| graph-color-2 / card | #86c4ff | #111e30 | 9.07:1 | 3:1 |
+| graph-color-2 / card glow peak | #86c4ff | #1a2b41 | 7.75:1 | 3:1 |
+| graph-color-3 / card | #f4cf81 | #111e30 | 11.25:1 | 3:1 |
+| graph-color-3 / card glow peak | #f4cf81 | #1a2b41 | 9.61:1 | 3:1 |
+| graph-color-4 / card | #b5a7e8 | #111e30 | 7.71:1 | 3:1 |
+| graph-color-4 / card glow peak | #b5a7e8 | #1a2b41 | 6.59:1 | 3:1 |
+| graph-color-5 / card | #ff9b9b | #111e30 | 8.32:1 | 3:1 |
+| graph-color-5 / card glow peak | #ff9b9b | #1a2b41 | 7.10:1 | 3:1 |
+| graph-color-6 / card | #79d5dc | #111e30 | 9.87:1 | 3:1 |
+| graph-color-6 / card glow peak | #79d5dc | #1a2b41 | 8.44:1 | 3:1 |
+| graph-color-7 / card | #e8b895 | #111e30 | 9.36:1 | 3:1 |
+| graph-color-7 / card glow peak | #e8b895 | #1a2b41 | 8.00:1 | 3:1 |
+| graph-color-8 / card | #9caef5 | #111e30 | 7.82:1 | 3:1 |
+| graph-color-8 / card glow peak | #9caef5 | #1a2b41 | 6.68:1 | 3:1 |
 | primary-text-color / primary-background-color | #eef5fc | #0b1523 | 16.67:1 | 4.5:1 |
 | secondary-text-color / primary-background-color | #b1c3d7 | #0b1523 | 10.17:1 | 4.5:1 |
 | primary-color / primary-background-color | #9fe5cf | #0b1523 | 12.73:1 | 4.5:1 |

diff --git a/CHANGELOG.md b/CHANGELOG.md
@@ -1,5 +1,13 @@
 # Muutosloki
 
+## 0.2.0 — 2026-09-08
+
+- Hillitty 8 %:n sininen hehku teemataustaa käyttävien korttien oikeaan yläkulmaan. Dialogien ja vihjeiden peruspinta säilyy yksivärisenä.
+- Kahdeksan yhteensopivaa natiivikaavioiden sarjaväriä sekä esimerkit kiinteille lämpötila-, sade- ja hintaväreille.
+- 103 kontrastitarkistusta, mukana hehkun vaalein kohta ja kaikkien kahdeksan kaaviosarjan erottuminen taustasta.
+- Suora selainkoe HA Core 2026.8.3:ssa Amazing Weather Card 0.2.1:llä ja natiivikorteilla.
+- Täydennetyt asennus-, päivitys-, ulkoasu- ja yhteensopivuusohjeet.
+
 ## 0.1.0 — 2026-09-08
 
 - Alkuperäiseen Amazing Weather Card -palettiin perustuva itsenäinen tumma teema.
@@ -12,4 +20,4 @@
 - HACS- ja teemavalidointi GitHub Actionsissa sekä Dependabot-päivitykset.
 - Suojattu päähaara ja julkaisutagit sekä tietoturva- ja osallistumisohjeet.
 
-Asennusta käynnissä olevaan Home Assistantiin tai HACS:n kautta ei ole vielä testattu.
+Julkaisuhetkellä asennusta käynnissä olevaan Home Assistantiin tai HACS:n kautta ei ollut vielä testattu. Julkaisun jälkeen raportoitu HA-kokeilu ja ajantasainen testitilanne on kirjattu tiedostoon [COMPATIBILITY.md](docs/COMPATIBILITY.md#käyttäjän-ha-kokeilu-892026).

diff --git a/docs/PREVIEW-QA.md b/docs/PREVIEW-QA.md
@@ -1,10 +1,12 @@
 # Esikatselun selaintarkistus
 
+Version 0.2.0 hehku, kahdeksan palettinäytettä, dialogi ja asettelu tarkistettiin 8.9.2026 uudelleen kaikilla alla olevilla leveyksillä. Työpöytä-, mobiili- ja dialogikuvat päivitettiin ja katsottiin läpi.
+
 Paikallinen esikatselu tarkistettiin headless Microsoft Edgellä (Chromium), Playwrightin avulla.
 
 - Leveydet 1440, 1024, 736, 390 ja 320 px: ei sivun tai korttien vaakaylivuotoa.
 - Dialogi mahtuu joka leveyteen ja sulkeutuu Escape-näppäimellä.
-- Molemmat kytkimet, kirkkaussäädin, tila-/virhe-esimerkit ja dialogin kuittaus toimivat.
+- Version 0.1.0 toiminnallisessa kokeessa molemmat kytkimet, kirkkaussäädin, tila-/virhe-esimerkit ja dialogin kuittaus toimivat.
 - Ei JavaScript-virheitä eikä ulkoisia verkkopyyntöjä.
 - Kuvakaappaukset: työpöytä, puhelin ja dialogi.
 

diff --git a/docs/RELEASING.md b/docs/RELEASING.md
@@ -17,7 +17,7 @@ Julkaisutagit `v*` on suojattu muutoksilta ja poistamiselta. Korjaukset julkaist
 
 ## Automaattiset tarkistukset
 
-- `Theme validation`: YAML, esimerkit, manifesti, esikatselun vastaavuus ja 81 kontrastiparia.
+- `Theme validation`: YAML, esimerkit, manifesti, esikatselun vastaavuus ja 103 kontrastiparia (mukaan lukien hehkun vaalein kohta ja kahdeksan kaaviosarjaa).
 - `HACS validation`: virallinen HACS-validaattori kategoriassa `theme`, mukaan lukien GitHub-metatiedot.
 - Dependabot seuraa npm-kehitysriippuvuutta ja GitHub Actions -viitteitä viikoittain.
 
